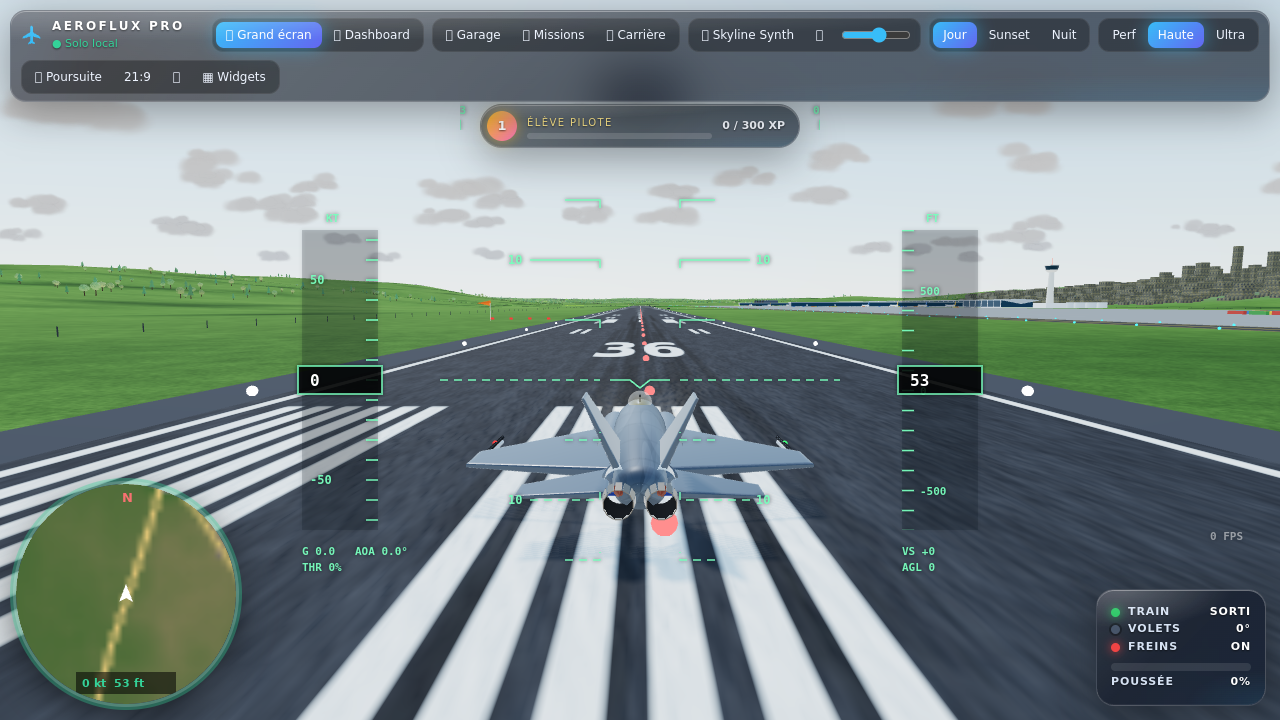
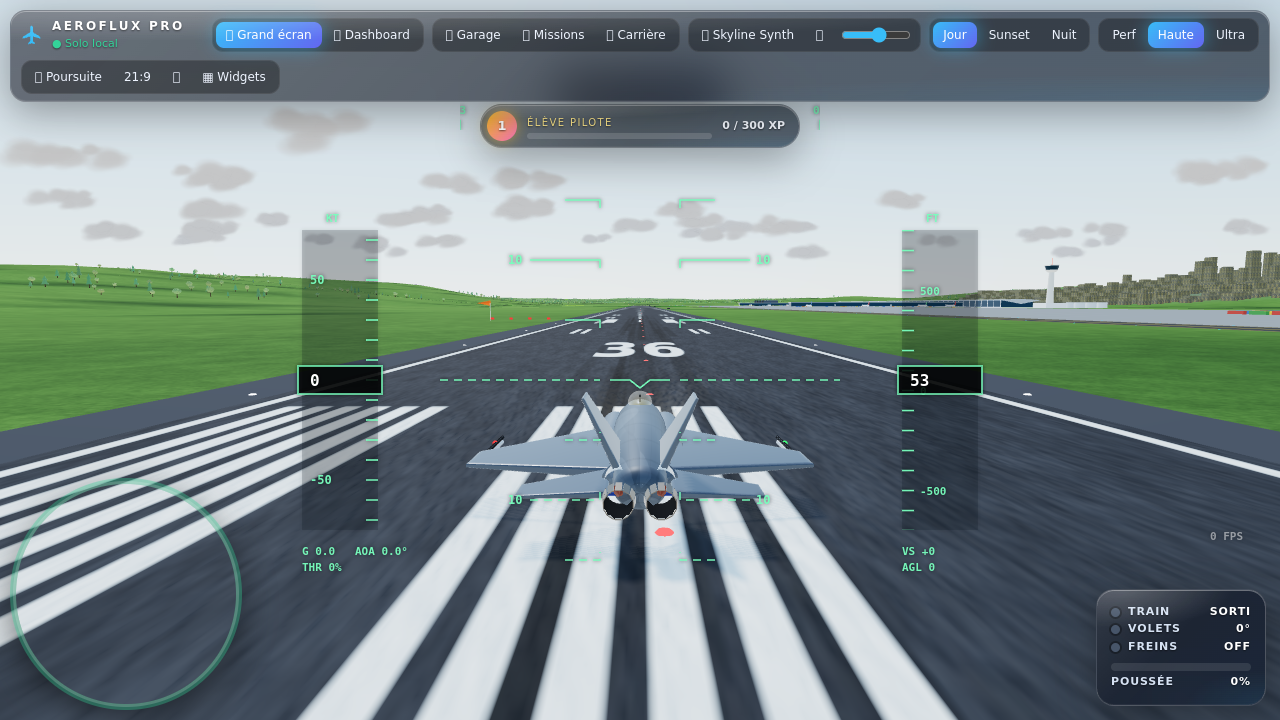
v2.4.2: feux de piste encastrés (plus de grosses boules), rampes d'approche sur mâts, herbe sans stries, clôture retirée

diff --git a/public/js/world.js b/public/js/world.js
@@ -192,7 +192,7 @@ export class World {
       sh.vertexShader = sh.vertexShader.replace('#include <common>', '#include <common>\nvarying vec3 vWPos;').replace('#include <worldpos_vertex>', '#include <worldpos_vertex>\nvWPos = (modelMatrix*vec4(transformed,1.0)).xyz;');
       sh.fragmentShader = sh.fragmentShader.replace('#include <common>', '#include <common>\nvarying vec3 vWPos;')
         .replace('#include <map_fragment>', `
-          vec4 d1 = texture2D(map, vWPos.xz/18.0);
+          vec2 pw = vWPos.xz; vec4 d1 = 0.5*(texture2D(map, mat2(0.8,-0.6,0.6,0.8)*pw/17.0) + texture2D(map, mat2(0.28,0.96,-0.96,0.28)*pw/9.0 + 0.37));
           vec4 d2 = texture2D(map, vWPos.xz/210.0);
           vec4 d3 = texture2D(map, vWPos.xz/1900.0);
           float dist = length(vWPos - cameraPosition);
@@ -338,12 +338,8 @@ export class World {
     const cars = new THREE.InstancedMesh(carG, new THREE.MeshStandardMaterial({ roughness: 0.3, metalness: 0.6 }), nC); let ci = 0;
     for (let i = 0; i < nC; i++) { if (Math.random() < 0.25) continue; const col = [TX + 72, TX + 98, TX + 142, TX + 168][i % 4]; M.makeTranslation(col, y, -pkL / 2 + 8 + Math.floor(i / 4) * 16 * 0.62); cars.setMatrixAt(ci, M); cars.setColorAt(ci++, new THREE.Color().setHSL(Math.random(), Math.random() * 0.6, 0.25 + Math.random() * 0.5)); }
     cars.count = ci; g.add(cars);
-    // --- clôture périmétrique
-    const postG = new THREE.BoxGeometry(0.2, 2.5, 0.2); postG.translate(0, 1.25, 0); const fence = []; const fx0 = -140, fx1 = TX + 200, fz = L / 2 + 250;
-    for (let z = -fz; z <= fz; z += 25) fence.push([fx0, z], [fx1, z]); for (let x = fx0; x <= fx1; x += 25) fence.push([x, -fz], [x, fz]);
-    const posts = new THREE.InstancedMesh(postG, darkMat, fence.length); fence.forEach(([x, z], i) => { M.makeTranslation(x, y - 0.3, z); posts.setMatrixAt(i, M); }); g.add(posts);
     // --- balisage
-    const lightGeo = new THREE.SphereGeometry(0.45, 8, 6); const pts = [], cols = [];
+    const lightGeo = new THREE.SphereGeometry(0.32, 8, 4, 0, Math.PI * 2, 0, Math.PI / 2); lightGeo.scale(1, 0.45, 1); const pts = [], cols = [];
     const addL = (x, z, c) => { pts.push([x, z]); cols.push(new THREE.Color(c)); };
     for (let z = -L / 2; z <= L / 2; z += 60) { addL(-W / 2 - 2, z, 0xfff2cc); addL(W / 2 + 2, z, 0xfff2cc); }
     for (let z = -L / 2 + 30; z <= L / 2 - 30; z += 30) addL(0.8, z, Math.abs(z) > L / 2 - 900 ? 0xff5555 : 0xffffff);
@@ -352,7 +348,10 @@ export class World {
     for (let z = -L / 2 + 50; z <= L / 2 - 50; z += 30) { addL(173, z, 0x3399ff); addL(207, z, 0x3399ff); }
     for (const z of exits) for (let x = 30; x < 180; x += 15) addL(x, z, 0x33ff66);
     const lm = new THREE.InstancedMesh(lightGeo, new THREE.MeshBasicMaterial({ toneMapped: false }), pts.length);
-    pts.forEach(([x, z], i) => { M.makeTranslation(x, y + 0.35, z); lm.setMatrixAt(i, M); lm.setColorAt(i, cols[i].multiplyScalar(3)); }); g.add(lm);
+    pts.forEach(([x, z], i) => { const appr = Math.abs(z) > L / 2 + 30; M.makeTranslation(x, y + (appr ? 0.9 : 0.02), z); lm.setMatrixAt(i, M); lm.setColorAt(i, cols[i].multiplyScalar(2.2)); }); g.add(lm);
+    // mâts des rampes d'approche
+    const poleG = new THREE.CylinderGeometry(0.06, 0.06, 0.9); poleG.translate(0, 0.45, 0); const appPts = pts.filter(([, z]) => Math.abs(z) > L / 2 + 30);
+    const poles = new THREE.InstancedMesh(poleG, darkMat, appPts.length); appPts.forEach(([x, z], i) => { M.makeTranslation(x, y, z); poles.setMatrixAt(i, M); }); g.add(poles);
     // panneaux de taxiway
     const signTex = (txt) => canvasTex(128, 48, (c, w, h) => { c.fillStyle = '#111'; c.fillRect(0, 0, w, h); c.fillStyle = '#f5d000'; c.fillRect(64, 0, 64, h); c.font = 'bold 30px Arial'; c.textAlign = 'center'; c.fillStyle = '#f5d000'; c.fillText(txt, 32, 35); c.fillStyle = '#111'; c.fillText('18-36', 96, 35); });
     exits.forEach((z, i) => { const s = new THREE.Mesh(new THREE.BoxGeometry(0.4, 1.6, 4.4), [darkMat, darkMat, darkMat, darkMat, new THREE.MeshBasicMaterial({ map: signTex('ABCDE'[i]) }), new THREE.MeshBasicMaterial({ map: signTex('ABCDE'[i]) })]); s.rotation.y = Math.PI / 2; s.position.set(45, y + 1, z + 22); g.add(s); });
